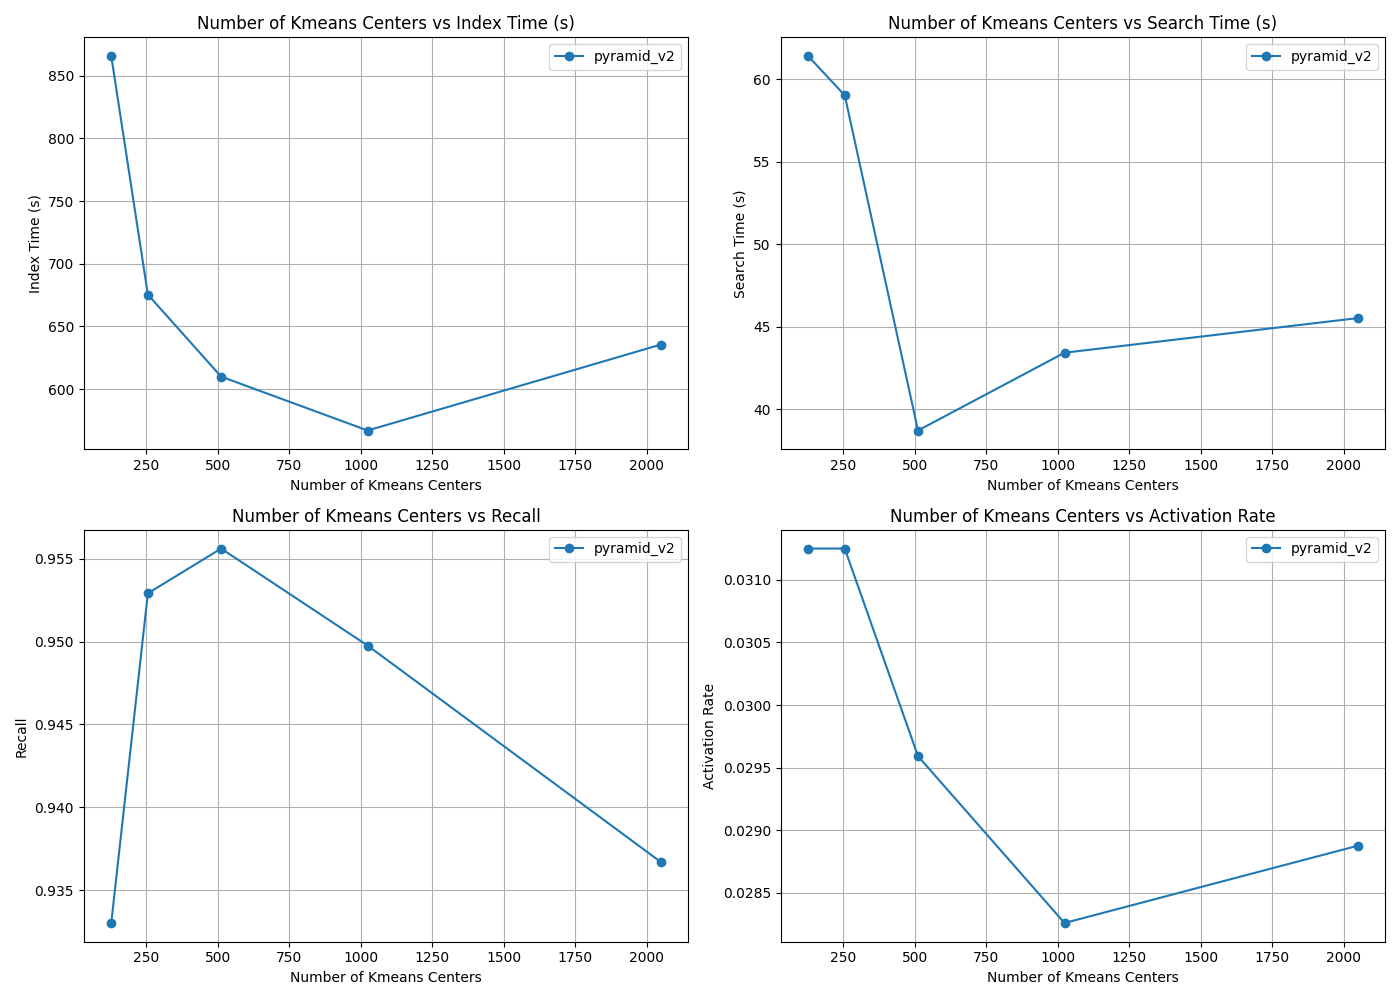
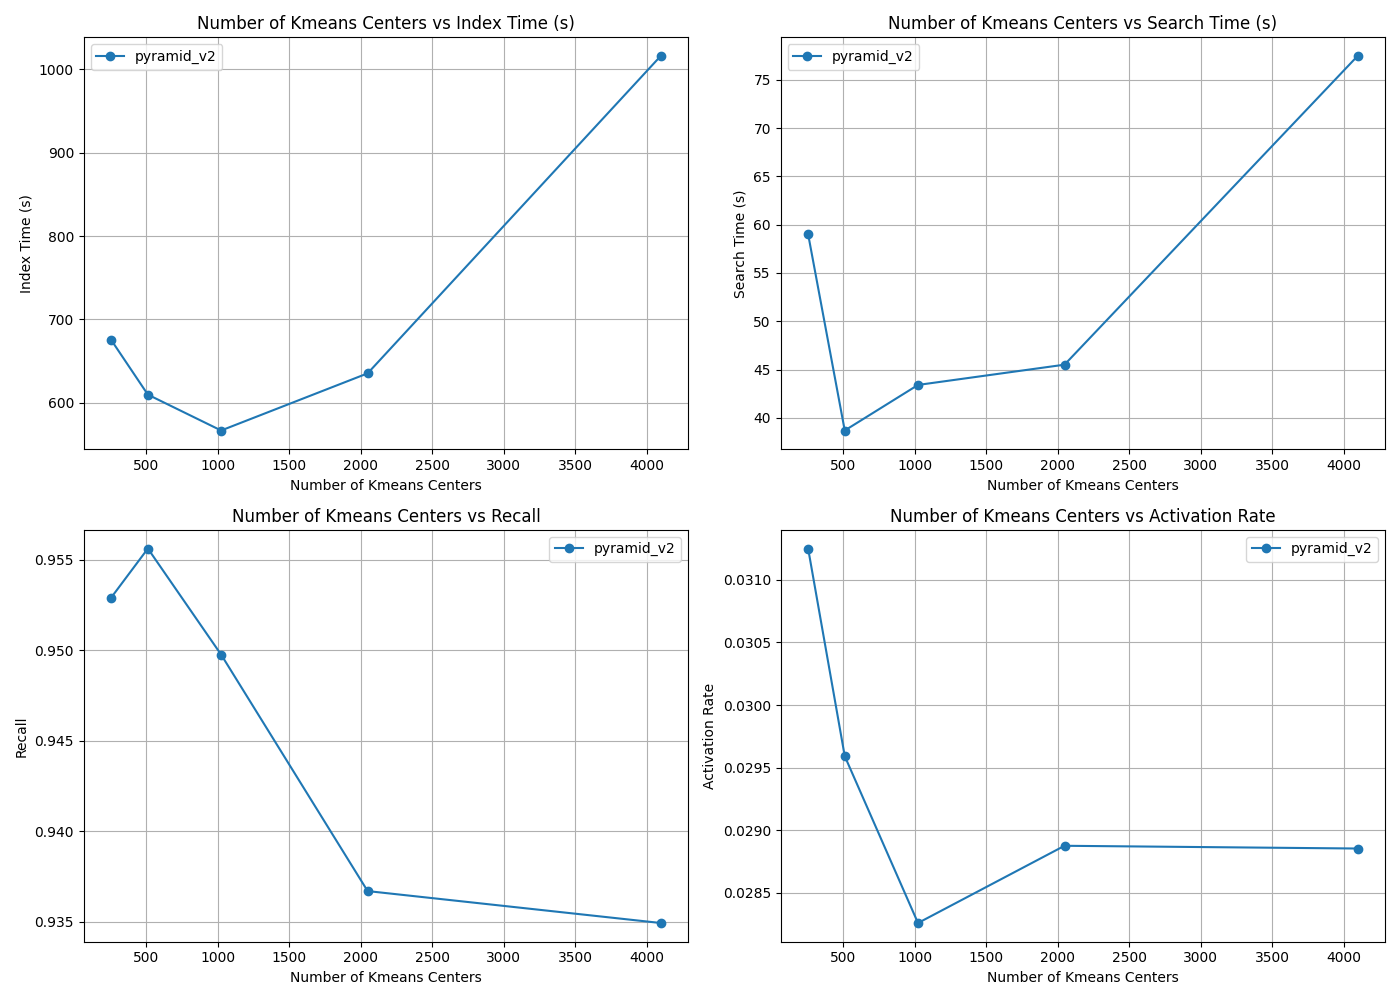
Re plot m center sensitivity results.

diff --git a/hnsw/output/m_center_sensitivity/plotter.py b/hnsw/output/m_center_sensitivity/plotter.py
@@ -40,7 +40,7 @@ def plot_model_metrics(csv_path: str, save_path: str):
 def combine_csv_files(prefix: str, output_file: str = "m_center_sensitivity.csv"):
     # Updated header to include model name
     header = "model,input_size,num_procs,sample_size,m,branching_factor,index_time,search_time,recall,activation_rate"
-    postfixes = [str((2**i) * 128) for i in range(5)] 
+    postfixes = [str((2**i) * 256) for i in range(5)] 
 
     with open(output_file, "w") as outfile:
         outfile.write(header + "\n")
